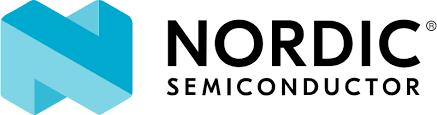
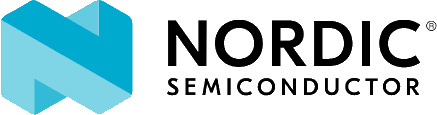
remove white background

diff --git a/css/custom.css b/css/custom.css
@@ -287,7 +287,7 @@ body {
 
 .prev-sponsors-container {
   padding: 1rem 30px 1.5rem;
-  background: white;
+  background: transparent;
 }
 
 .prev-sponsors-img {
